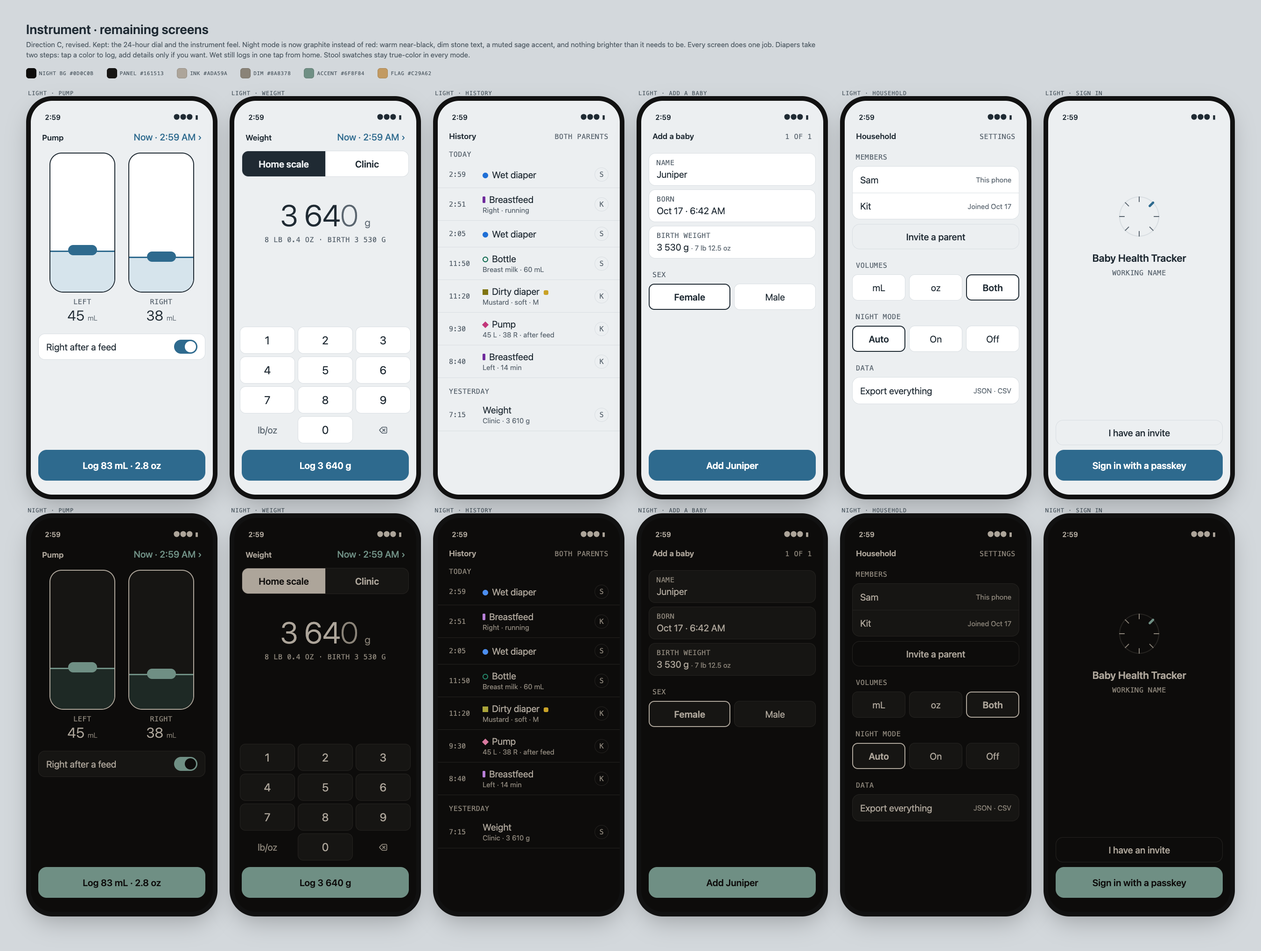
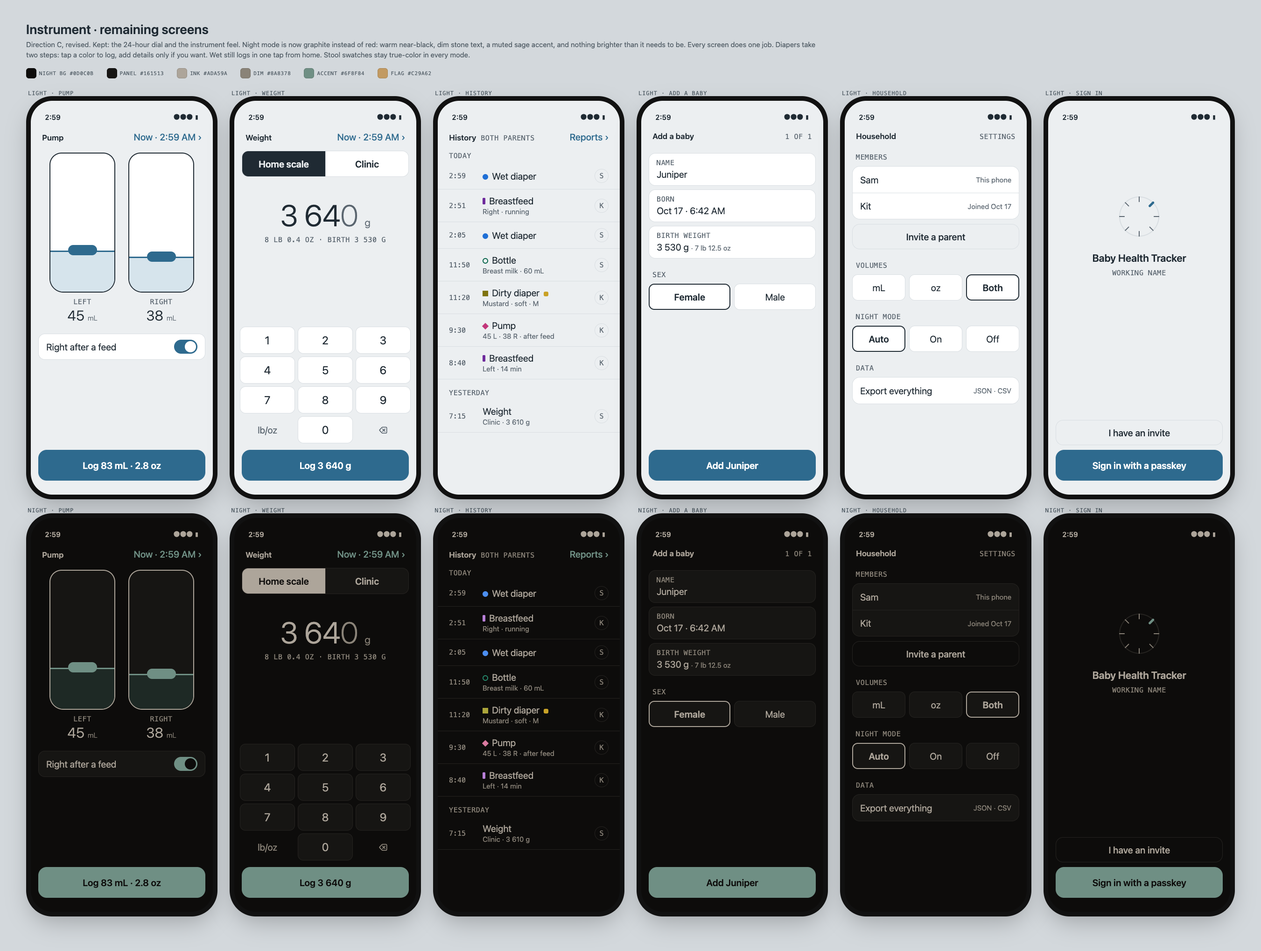
docs/design: Reports layout and Day starts at (#21) (#27)
* docs/design: Reports layout and Day starts at (#21)

- New ?board=reports: Day (summary cards, timeline in the dial's
  shapes, list with an after-midnight divider), Week (daily averages,
  a row per day with a mini timeline), Month (calendar with feeds and
  diapers per day), the Day starts at setting, and History's
  "Reports ›" header as the way in. Tapping the Home dial also opens it.
- Day starts at groups Reports and History only; the setting says
  Readings still count from the birth time.
- Counts in the mockup are computed from the same events the timeline
  draws, and Monday Oct 26 is the same day across all three views.
- README: Reports section, DST subtitle rule, per-phone until #5.
- Text audit over all four boards: every tappable label is 20 px and
  no text is below 4.5:1 (lowest 4.75 light, 4.63 night).

* docs/design: Reports review fixes (#21)

- Day phone scrolls; the board adds the same day scrolled to the
  After midnight divider, so the 1:40 and 3:00 AM feeds show.
- Events are real instants in America/New_York and days are cut at
  the day start, so a day can be 23 or 25 hours. ?case=dst25, dst23
  and start show the 25 h day (second 1:30 AM labelled "(2nd)", the
  repeated hour shaded), the 23 h day (no 2 AM), and Day starts at
  8 AM vs Midnight with the 3:00 AM Tuesday feed moving between
  Monday and Tuesday, each in Day and Week.
- Week is Oct 26 – Nov 1, so Monday Oct 26 matches in Day, Week and
[…]

diff --git a/docs/design/direction.html b/docs/design/direction.html
@@ -159,6 +159,62 @@ body{background:#D3D8DC;font-family:-apple-system,system-ui,sans-serif;padding:4
 .keys div{height:58px;border-radius:12px;background:var(--panel);border:1px solid var(--line);display:flex;align-items:center;justify-content:center;font:400 24px -apple-system,system-ui,sans-serif}
 .keys .ghost{background:none;border:none;color:var(--dim);font-size:20px}
 .mark{display:flex;justify-content:center;margin-top:150px}
+/* reports (#21) */
+.rp-step{display:grid;grid-template-columns:52px 1fr 52px;gap:8px;align-items:center;margin:14px 16px 0}
+.rp-step .arr{height:52px;border-radius:12px;border:1px solid var(--line);background:var(--panel);display:flex;align-items:center;justify-content:center;font:500 24px -apple-system,system-ui,sans-serif}
+.rp-step .arr.off{background:none;color:var(--dim)}
+.rp-step .d{text-align:center}
+.rp-step .d b{display:block;font:600 20px -apple-system,system-ui,sans-serif}
+.rp-step .d .lab{display:block;margin-top:4px}
+.sum{display:grid;grid-template-columns:repeat(3,1fr);gap:8px;margin:14px 16px 0}
+.sum>div{background:var(--panel);border:1px solid var(--line);border-radius:14px;padding:10px 12px 12px}
+.sum .n{font:300 36px/1.1 -apple-system,system-ui,sans-serif;font-variant-numeric:tabular-nums;margin:4px 0 4px}
+.sum .n small{font-size:17px;color:var(--dim)}
+.sub{font:400 15px/1.35 -apple-system,system-ui,sans-serif;color:var(--dim);font-variant-numeric:tabular-nums}
+.sub b{font-weight:500;color:var(--ink)}
+.sub .g{margin-right:5px;vertical-align:-1px}
+.avg{margin:14px 24px 0;font-size:17px;line-height:1.4}
+.avg b{font-weight:600;font-variant-numeric:tabular-nums}
+.strip{margin:8px 16px 0;padding:10px 12px 6px;background:var(--panel);border:1px solid var(--line);border-radius:14px}
+.strip svg{display:block;width:100%}
+.rr{display:grid;grid-template-columns:84px 1fr;align-items:center;gap:10px;padding:9px 24px;border-bottom:1px solid var(--line)}
+.rr .t{font:500 15px ui-monospace,Menlo,monospace;color:var(--dim);white-space:nowrap;text-align:right}
+.rr .k{font-size:17px}
+.rr .k small{color:var(--dim);font-size:15px;margin-left:6px}
+.rr .k .g{margin-right:8px}
+.after{margin:12px 24px 2px}
+.wk{margin:12px 16px 0;border-radius:16px;background:var(--panel);border:1px solid var(--line)}
+.wk>div{padding:10px 14px 8px}
+.wk>div+div{border-top:1px solid var(--line)}
+.wk .h{display:flex;justify-content:space-between;align-items:baseline}
+.wk .h b{font:600 20px -apple-system,system-ui,sans-serif}
+.wk .on{background:color-mix(in srgb,var(--acc) 10%,var(--panel))}
+.cal{display:grid;grid-template-columns:repeat(7,minmax(0,1fr));gap:4px;margin:10px 12px 0}
+.cal .wd{text-align:center;font:500 15px ui-monospace,Menlo,monospace;color:var(--dim);padding-bottom:2px}
+.cal .c{height:74px;border-radius:10px;background:var(--panel);border:1px solid var(--line);padding:5px 5px 4px;display:flex;flex-direction:column;justify-content:space-between}
+.cal .c b{font:500 20px/1 -apple-system,system-ui,sans-serif;font-variant-numeric:tabular-nums}
+.cal .c span{display:flex;align-items:center;gap:4px;font:400 15px/1.15 -apple-system,system-ui,sans-serif;font-variant-numeric:tabular-nums}
+.cal .c.x{background:none;border-color:transparent}
+.cal .c.x b{font-weight:400;color:var(--dim)}
+.cal .c.today{border:2px solid var(--ink)}
+.cal .c.wkon{background:color-mix(in srgb,var(--acc) 10%,var(--panel))}
+.pairg{display:inline-flex;gap:1px;align-items:center;flex:none}
+.pairg i{display:inline-block;width:6px;height:6px}
+.note{margin:10px 24px 0;font:400 15px/1.45 -apple-system,system-ui,sans-serif;color:var(--dim)}
+.note b{color:var(--ink);font-weight:500}
+.scr{position:absolute;top:50px;left:0;right:0;bottom:0;overflow-y:auto;scrollbar-width:none;padding-bottom:34px}
+.axis{position:relative;height:20px;margin-top:2px}
+.axis span{position:absolute;transform:translateX(-50%);white-space:nowrap}
+.axis span.l{transform:none;left:0!important}
+.axis span.r{transform:none;left:auto!important;right:0}
+.wcard{display:flex;align-items:baseline;gap:10px;margin:8px 16px 0;padding:10px 12px;background:var(--panel);border:1px solid var(--line);border-radius:14px}
+.wcard b{font:300 24px/1.1 -apple-system,system-ui,sans-serif;white-space:nowrap}
+.wk .h{gap:10px}
+.wk .h .tag{display:block;font:400 15px/1.3 -apple-system,system-ui,sans-serif;color:var(--dim)}
+.wk .fut .h b{color:var(--dim);font-weight:500}
+.rr .t small{display:block;font-size:15px}
+.rr.w .k small{display:block;margin:2px 0 0 20px}
+.rr.hl{box-shadow:inset 0 0 0 2px var(--acc);border-radius:10px}
 </style></head><body>
 <div id="root"></div>
 <script>
@@ -263,7 +319,7 @@ weight:()=>`${sb}${hdrA('Weight','Now · 2:59 AM ›')}
 <div class="keys">${[1,2,3,4,5,6,7,8,9].map(n=>`<div>${n}</div>`).join('')}<div class="ghost">lb/oz</div><div>0</div><div class="ghost">⌫</div></div>
 <div class="go">Log 3 640 g</div>`,
 
-history:()=>`${sb}${hdr('History','Both parents')}
+history:()=>`${sb}<div class="top"><b>History <span class="lab" style="margin-left:6px">Both parents</span></b><span class="act">Reports ›</span></div>
 <div class="day lab">Today</div>
 ${[["2:59","wet","Wet diaper","","S"],["2:51","feed","Breastfeed","Right · running","K"],["2:05","wet","Wet diaper","","S"],["11:50","bottle","Bottle","Breast milk · 60 mL","S"],["11:20","dirty","Dirty diaper","Mustard · soft · M","K","#C9A227"],["9:30","pump","Pump","45 L · 38 R · after feed","K"],["8:40","feed","Breastfeed","Left · 14 min","K"]].map(([t,g,k,d,w,c])=>`<div class="ev"><span class="t">${t}</span><span class="k"><i class="g g-${g}" style="margin-right:8px"></i>${k}${c?` <i class="dot" style="background:${c};margin:0 0 0 4px"></i>`:''}${d?`<small>${d}</small>`:''}</span><span class="who">${w}</span></div>`).join('')}
 <div class="day lab">Yesterday</div>
@@ -290,15 +346,134 @@ signin:()=>`${sb}
 <div class="go2">I have an invite</div>
 <div class="go">Sign in with a passkey</div>`,
 };
+// Reports (#21). Fake data. Every event is a real instant, and days are cut at the household's day start in America/New_York,
+// so a day can be 23 or 25 hours. ?case=dst25|dst23|start shows the boundary cases.
+const TZ='America/New_York',HR=36e5,MON=['Jan','Feb','Mar','Apr','May','Jun','Jul','Aug','Sep','Oct','Nov','Dec'],WD=['Sun','Mon','Tue','Wed','Thu','Fri','Sat'],WDL=['Sunday','Monday','Tuesday','Wednesday','Thursday','Friday','Saturday'];
+const WF=new Intl.DateTimeFormat('en-US',{timeZone:TZ,hourCycle:'h23',year:'numeric',month:'numeric',day:'numeric',hour:'numeric',minute:'numeric'});
+const wall=t=>{const p={};WF.formatToParts(t).forEach(x=>p[x.type]=x.value);const w={y:+p.year,mo:+p.month,d:+p.day,h:+p.hour%24,mi:+p.minute};w.wd=WD[new Date(Date.UTC(w.y,w.mo-1,w.d)).getUTCDay()];return w};
+const off=t=>{const w=wall(t);return Date.UTC(w.y,w.mo-1,w.d,w.h,w.mi)-Math.floor(t/6e4)*6e4};
+// Wall time to instant. A repeated time (clocks back) gives the first one, or the second with n=2. A skipped time moves forward.
+function zoned(y,mo,d,h=0,mi=0,n=1){const u=new Date(Date.UTC(y,mo-1,d));[y,mo,d]=[u.getUTCFullYear(),u.getUTCMonth()+1,u.getUTCDate()];
+ const g=Date.UTC(y,mo-1,d,h,mi),c=[...new Set([off(g-12*HR),off(g+12*HR)])].map(o=>g-o).filter(t=>{const w=wall(t);return w.d===d&&w.h===h&&w.mi===mi}).sort((a,b)=>a-b);
+ return c.length?c[Math.min(n,c.length)-1]:g-off(g-12*HR)}
+const ymd=s=>s.split('-').map(Number);
+const win=(y,mo,d,ds)=>[zoned(y,mo,d,ds),zoned(y,mo,d+1,ds)]; // a report day: [start, next start)
+const ampm=w=>`${(w.h%12)||12}${w.mi?':'+String(w.mi).padStart(2,'0'):''} ${w.h<12?'AM':'PM'}`;
+const clk=t=>{const w=wall(t);return`${(w.h%12)||12}:${String(w.mi).padStart(2,'0')} ${w.h<12?'AM':'PM'}${zoned(w.y,w.mo,w.d,w.h,w.mi)!==t?'<small> (2nd)</small>':''}`};
+const BIRTH=zoned(2026,10,17,6,42);
+let NOW=zoned(2026,10,29,3,0),CASE='';
+// Hand fixtures are written by the 8 AM convention: a time before 8 AM is the next calendar morning. '1:30#2' is the second 1:30.
+const fix=(y,mo,d,L)=>L.map(([ev,tm,v,dd,hl])=>{const[a,n]=tm.split('#'),[h,mi]=a.split(':').map(Number);return{ev,t:zoned(y,mo,h<8?d+1:d,h,mi,+n||1),v,d:dd,hl}});
+// Monday Oct 26: the day in the issue (1-4 AM feeds count as Monday night). The 3:00 AM feed is the one ?case=start follows.
+const HAND={'2026-10-26':fix(2026,10,26,[['feed','8:40',14,'Left · 14 min'],['pump','9:30',83,'45 L · 38 R'],['wet','10:05'],['weight','10:30',3580,'Clinic'],['dirty','11:20',0,'Mustard · soft'],['bottle','11:50',60,'Breast milk'],['feed','13:10',18,'Right · 18 min'],['wet','14:00'],['bottle','15:30',60,'Formula'],['feed','16:45',12,'Left · 12 min'],['dirty','17:30',0,'Yellow · seedy'],['feed','19:10',16,'Right · 16 min'],['wet','20:00'],['bottle','22:40',60,'Breast milk'],['wet','23:30'],['feed','1:40',15,'Left · 15 min'],['wet','2:05'],['feed','3:00',20,'Right · 20 min',1],['dirty','4:10',0,'Mustard · soft']]),
+// Sat Oct 31: clocks go back at 2 AM Sunday, so this day is 25 h and 1:30 AM happens twice.
+'2026-10-31':fix(2026,10,31,[['feed','8:20',16,'Left · 16 min'],['wet','9:40'],['bottle','11:00',60,'Breast milk'],['feed','12:15',14,'Right · 14 min'],['dirty','13:30',0,'Mustard · seedy'],['feed','15:00',18,'Left · 18 min'],['wet','16:10'],['bottle','17:45',75,'Formula'],['feed','19:20',15,'Right · 15 min'],['wet','20:30'],['feed','22:10',17,'Left · 17 min'],['wet','23:40'],['feed','1:30',15,'Right · 15 min'],['wet','1:30#2'],['feed','3:40',16,'Left · 16 min'],['dirty','5:30',0,'Yellow · soft'],['bottle','6:50',60,'Breast milk']]),
+// Sat Mar 13 2027: clocks go forward at 2 AM Sunday, so this day is 23 h and there is no 2 AM hour.
+'2027-03-13':fix(2027,3,13,[['bottle','8:10',150,'Breast milk'],['wet','9:00'],['feed','11:30',12,'Left · 12 min'],['dirty','12:40',0,'Brown · soft'],['bottle','14:00',180,'Formula'],['wet','15:10'],['feed','17:30',10,'Right · 10 min'],['wet','18:20'],['bottle','20:00',180,'Formula'],['wet','21:10'],['feed','23:30',14,'Left · 14 min'],['feed','1:50',10,'Right · 10 min'],['wet','3:10'],['bottle','6:30',150,'Breast milk'],['wet','7:30']])};
+function rng(seed){return()=>{seed|=0;seed=seed+0x6D2B79F5|0;let t=Math.imul(seed^seed>>>15,1|seed);t=t+Math.imul(t^t>>>7,61|t)^t;return((t^t>>>14)>>>0)/4294967296}}
+function authored(y,mo,d){const u=new Date(Date.UTC(y,mo-1,d));[y,mo,d]=[u.getUTCFullYear(),u.getUTCMonth()+1,u.getUTCDate()];
+ const k=`${y}-${String(mo).padStart(2,'0')}-${String(d).padStart(2,'0')}`;if(HAND[k])return HAND[k];
+ const[s,e]=win(y,mo,d,8);if(e<=BIRTH)return[];const old=y>2026;
+ const r=rng(d*7919+((y-2026)*12+mo-10)*104729),n=(a,b)=>a+Math.floor(r()*(b-a+1)),out=[];
+ const put=(ev,k,f)=>{for(let i=0;i<k;i++){const t=s+Math.floor(r()*(e-s)/6e4)*6e4;out.push({ev,t,...f()})}};
+ put('feed',old?n(3,5):n(5,7),()=>{const v=n(10,22);return{v,d:`${v%2?'Left':'Right'} · ${v} min`}});put('bottle',old?n(3,5):n(2,4),()=>{const v=old?[150,180,180,210][n(0,3)]:[45,60,60,75][n(0,3)];return{v,d:v%60?'Formula':'Breast milk'}});
+ put('wet',d<22&&!old?n(3,5):n(5,7),()=>({}));put('dirty',old?n(1,2):n(2,4),()=>({}));
+ if(r()<.6)put('pump',1,()=>({v:n(60,90)}));return out}
+// Events in [s,e), whichever day they were written under, logged before now and after birth.
+const between=(s,e)=>{const a=wall(s),out=[];for(let i=-1;i<=Math.ceil((e-s)/864e5)+1;i++)out.push(...authored(a.y,a.mo,a.d+i));return out.filter(x=>x.t>=s&&x.t<e&&x.t<NOW&&x.t>=BIRTH).sort((p,q)=>p.t-q.t)};
+const tally=E=>{const c={feed:0,bottle:0,wet:0,dirty:0,pump:0,ml:0,pml:0,weight:null};E.forEach(e=>{if(e.ev==='weight'){c.weight=e;return}c[e.ev]++;if(e.ev==='bottle')c.ml+=e.v;if(e.ev==='pump')c.pml+=e.v});return c};
+const kg=g=>(g/1000).toFixed(2),lbOz=g=>{let o=Math.round(g/28.3495),l=Math.floor(o/16);return`${l} lb ${o-l*16} oz`};
+const hrs=(s,e)=>Math.round((e-s)/HR);
+const shift=(s,e)=>{for(let t=s+HR;t<e;t+=HR)if(off(t)!==off(s))return t;return 0}; // when the clocks changed, if they did
+const midnight=(s,e)=>{const w=wall(s),m=zoned(w.y,w.mo,w.d+1,0);return m>s&&m<e?m:0};
+// Timeline in the dial's shapes. x is real elapsed time, so a 25 h day has 25 equal hours. Feed bars (length = duration) and bottle rings
+// share the top lane, like the dial's outer ring; wet dots and dirty squares share the next, like its inner ring. Pump gets its own lane.
+// Weight has no dial mark, so it stays off the timeline and shows as a card and a list row.
+function strip(E,s,e,ds,W,mini){const H=mini?26:62,x=t=>4+(t-s)/(e-s)*(W-8),y=mini?{feed:7,bottle:7,wet:19,dirty:19,pump:19}:{feed:12,bottle:12,wet:32,dirty:32,pump:52};
+ let o='';const m=midnight(s,e),sh=shift(s,e),back=sh&&off(sh)<off(s);
+ if(sh&&back)o+=`<rect x="${x(sh)}" y="0" width="${x(sh+HR)-x(sh)}" height="${H}" fill="var(--band)"/>`;
+ if(m)o+=`<line x1="${x(m)}" y1="0" x2="${x(m)}" y2="${H}" stroke="var(--dim)" stroke-width="1" stroke-dasharray="2 3"/>`;
+ const sw=wall(s),ticks=[0,6,12,18].map(k=>zoned(sw.y,sw.mo,sw.d+Math.floor((ds+k)/24),(ds+k)%24)).concat(e);
+ if(!mini)ticks.forEach(t=>o+=`<line x1="${x(t)}" y1="0" x2="${x(t)}" y2="${H}" stroke="var(--line)" stroke-width="1"/>`);
+ if(sh&&!back&&!mini)o+=`<line x1="${x(sh)}" y1="0" x2="${x(sh)}" y2="${H}" stroke="var(--ink)" stroke-width="1.5"/>`;
+ const k=mini?.62:1;
+ E.forEach(ev=>{const X=x(ev.t),Y=y[ev.ev];
+  if(ev.ev==='feed')o+=`<rect x="${X}" y="${Y-7*k}" width="${Math.max(3*k,ev.v*6e4/(e-s)*(W-8))}" height="${14*k}" rx="1.5" fill="var(--feed)"/>`;
+  if(ev.ev==='bottle')o+=`<circle cx="${X}" cy="${Y}" r="${5*k}" fill="var(--panel)" stroke="var(--bottle)" stroke-width="${2.5*k}"/>`;
+  if(ev.ev==='wet')o+=`<circle cx="${X}" cy="${Y}" r="${5.5*k}" fill="var(--wet)"/>`;
+  if(ev.ev==='dirty')o+=`<rect x="${X-5*k}" y="${Y-5*k}" width="${10*k}" height="${10*k}" rx="1" fill="var(--dirty)"/>`;
+  if(ev.ev==='pump'&&!mini)o+=`<rect x="${X-4.5}" y="${Y-4.5}" width="9" height="9" fill="var(--pump)" transform="rotate(45 ${X} ${Y})"/>`});
+ const ax=mini?'':`<div class="axis sub">${ticks.map((t,i)=>`<span style="left:${x(t)/W*100}%" class="${i?i==4?'r':'':'l'}">${ampm(wall(t))}</span>`).join('')}</div>`;
+ return `<svg viewBox="0 0 ${W} ${H}" height="${H}">${o}</svg>${ax}`}
+const dsLab=ds=>ds?`Day starts ${ds} AM`:'Day starts midnight';
+const rHdr=ds=>hdrA('‹ Home',dsLab(ds),1).replace(`<span class="act">${dsLab(ds)}</span>`,`<span class="lab">${dsLab(ds)}</span>`);
+const seg3=on=>`<div class="seg">${['Day','Week','Month'].map(t=>`<div class="${t===on?'on':''}">${t}</div>`).join('')}</div>`;
+const step=(t,sub,next=true)=>`<div class="rp-step"><div class="arr">‹</div><div class="d"><b>${t}</b><span class="lab">${sub}</span></div><div class="arr ${next?'':'off'}">›</div></div>`;
+const per=(v,n)=>(Math.round(v/n*10)/10).toString();
+const today=ds=>{const w=wall(NOW);return w.h<ds?[w.y,w.mo,w.d-1]:[w.y,w.mo,w.d]};
+// The Day phone scrolls. data-scroll picks a resting position for the static captures.
+const scr=(body,at)=>`<div class="scr" data-scroll="${at||''}">${body}</div>`;
+Object.assign(S,{
+rDay:(date='2026-10-26',ds='8',at='')=>{ds=+ds;const[y,mo,d]=ymd(date),[s,e]=win(y,mo,d,ds),E=between(s,e),c=tally(E),m=midnight(s,e),sh=shift(s,e),L=hrs(s,e),ew=wall(e),sw=wall(s);
+ const sub=(ds?`${ampm(sw)} to ${ampm(ew)} ${ew.wd}`:'Midnight to midnight')+(L!==24?` · ${L} h`:'');
+ let after=false,shown=false;
+ return `${sb}`+scr(`${rHdr(ds)}${seg3('Day')}${step(`${WDL[new Date(Date.UTC(y,mo-1,d)).getUTCDay()]}, ${MON[mo-1]} ${d}`,sub)}
+<div class="sum"><div><span class="lab">Diapers</span><div class="n">${c.wet+c.dirty}</div><div class="sub"><i class="g g-wet"></i><b>${c.wet}</b> wet<br><i class="g g-dirty"></i><b>${c.dirty}</b> dirty</div></div>
+<div><span class="lab">Feeds</span><div class="n">${c.feed+c.bottle}</div><div class="sub"><i class="g g-feed"></i><b>${c.feed}</b> breast<br><i class="g g-bottle"></i><b>${c.bottle}</b> bottle</div></div>
+<div><span class="lab">Bottle</span><div class="n">${c.ml}</div><div class="sub"><b>mL</b> total<br><b>${(c.ml/29.57).toFixed(1)}</b> oz</div></div></div>
+${c.weight?`<div class="wcard"><span class="lab">Weight</span><b class="num">${kg(c.weight.v)} kg</b><span class="sub">${lbOz(c.weight.v)} · ${c.weight.d}</span></div>`:''}
+<div class="strip">${strip(E,s,e,ds,332)}</div>
+${sh?`<div class="note">${off(sh)<off(s)?'Clocks went back at 2 AM, so 1 AM to 2 AM happened twice. The shaded hour is the second one.':'Clocks went forward at 2 AM (solid line). There was no 2 AM hour.'}</div>`:''}
+<div style="margin-top:6px">${E.map(ev=>{let pre='';const mw=m&&wall(m);
+ if(m&&!after&&ev.t>=m){after=true;pre=`<div class="after lab">After midnight · ${mw.wd} ${MON[mw.mo-1]} ${mw.d}</div>`}
+ if(sh&&!shown&&ev.t>=sh){shown=true;pre+=`<div class="after lab">${off(sh)<off(s)?'Clocks went back · 1 AM again':'Clocks went forward · no 2 AM'}</div>`}
+ const name={feed:'Breastfeed',bottle:`Bottle ${ev.v} mL`,wet:'Wet diaper',dirty:'Dirty diaper',pump:'Pump',weight:`Weight · ${ev.v&&kg(ev.v)} kg / ${ev.v&&lbOz(ev.v)}`}[ev.ev];
+ return pre+`<div class="rr${ev.hl&&CASE==='start'?' hl':''}${ev.ev==='weight'?' w':''}"><span class="t">${clk(ev.t)}</span><span class="k"><i class="g g-${ev.ev}"></i>${name}${ev.d?`<small>${ev.d}</small>`:''}</span></div>`}).join('')}</div>`,at)},
+rWeek:(date='2026-10-26',ds='8')=>{ds=+ds;const[y,mo,d]=ymd(date),days=[0,1,2,3,4,5,6].map(i=>{const[s,e]=win(y,mo,d+i,ds),w=wall(zoned(y,mo,d+i,12));return{w,s,e,E:between(s,e)}}),
+ done=days.filter(x=>x.e<=NOW),T=done.map(x=>tally(x.E)),sum=k=>T.reduce((a,c)=>a+c[k],0),n=T.length,l=days[6].w;
+ const range=`${MON[mo-1]} ${d} – ${l.mo!==mo?MON[l.mo-1]+' ':''}${l.d}`;
+ return `${sb}`+scr(`${rHdr(ds)}${seg3('Week')}${step(range,'Mon to Sun',days[6].e<=NOW)}
+<div class="avg">A day on average${n<7?` (${n} full ${n==1?'day':'days'})`:''}: <b>${per(sum('wet')+sum('dirty'),n)}</b> diapers, <b>${per(sum('feed')+sum('bottle'),n)}</b> feeds, <b>${Math.round(sum('ml')/n)} mL</b> bottle.</div>
+<div class="wk">${days.map(({w,s,e,E})=>{const c=tally(E),L=hrs(s,e),lab=`${w.wd} ${w.d}`;
+ if(s>=NOW)return`<div class="fut"><div class="h"><b>${lab}</b><span class="sub">Not yet</span></div></div>`;
+ const tag=[e>NOW?'so far':'',L!==24?`${L} h`:''].filter(Boolean).join(' · ');
+ return`<div><div class="h"><b>${lab}${tag?`<span class="tag">${tag}</span>`:''}</b><span class="sub"><b>${c.wet+c.dirty}</b> diapers · <b>${c.feed+c.bottle}</b> feeds · <b>${c.ml}</b> mL</span></div>${strip(E,s,e,ds,326,1)}</div>`}).join('')}</div>`)},
+rMonth:()=>{const lead=(new Date(2026,9,1).getDay()+6)%7,cells=[],[ty,tm,td]=today(8);
+ for(let i=0;i<lead;i++)cells.push('<div class="c x"></div>');
+ const T=[];for(let d=1;d<=31;d++){const[s,e]=win(2026,10,d,8);if(e<=BIRTH||s>=NOW){cells.push(`<div class="c x"><b>${d}</b></div>`);continue}
+  const c=tally(between(s,e));if(e<=NOW)T.push(c);const now=ty===2026&&tm===10&&td===d;
+  cells.push(`<div class="c ${now?'today':''}"><b>${d}</b><span><i class="g g-feed" style="height:12px;width:5px"></i>${c.feed+c.bottle}</span><span><span class="pairg"><i style="background:var(--wet);border-radius:50%"></i><i style="background:var(--dirty)"></i></span>${c.wet+c.dirty}</span></div>`)}
+ const sum=k=>T.reduce((a,c)=>a+c[k],0),n=T.length;
+ return `${sb}${rHdr(8)}${seg3('Month')}${step('October 2026','Since birth, Oct 17',false)}
+<div class="avg">A day on average: <b>${per(sum('wet')+sum('dirty'),n)}</b> diapers, <b>${per(sum('feed')+sum('bottle'),n)}</b> feeds, <b>${Math.round(sum('ml')/n)} mL</b> bottle.</div>
+<div class="note" style="margin-top:6px"><i class="g g-feed" style="height:12px;width:5px;margin-right:6px"></i>feeds · <span class="pairg" style="margin-right:6px"><i style="background:var(--wet);border-radius:50%"></i><i style="background:var(--dirty)"></i></span>diapers · outlined: today so far</div>
+<div class="cal">${['M','T','W','T','F','S','S'].map(w=>`<div class="wd">${w}</div>`).join('')}${cells.join('')}</div>`},
+rStart:()=>`${sb}${hdr('Household','Settings')}
+<div class="sec lab">Volumes</div><div class="opts" style="grid-template-columns:repeat(3,1fr)"><div>mL</div><div>oz</div><div class="on">Both</div></div>
+<div class="sec lab">Night mode</div><div class="opts" style="grid-template-columns:repeat(3,1fr)"><div class="on">Auto</div><div>On</div><div>Off</div></div>
+<div class="sec lab">Day starts at</div><div class="opts" style="grid-template-columns:repeat(3,1fr)"><div>Midnight</div><div>6 AM</div><div>7 AM</div><div class="on">8 AM</div><div>9 AM</div><div>Other ›</div></div>
+<div class="note">Reports and History start each day at <b>8:00 AM</b>, so a 3 AM feed counts as the night before.</div>
+<div class="note">Readings don't change. They always count from Juniper's birth time.</div>`,
+});
 function gauges(){return [["Wet diapers","7",[50,100],72,"6+ from day 5"],["Dirty diapers","4",[38,100],55,"3+ in week 2"],["Weight vs birth","+3.1%",[40,80],58,"Back to birth weight by day 7–14"]].map(([k,v,[b1,b2],p,n])=>`<div class="gauge"><div class="r"><span class="k">${k}</span><span class="v">${v}</span></div><div class="track"><div class="base"></div><div class="band" style="left:${b1}%;right:${100-b2}%"></div><div class="pt" style="left:${p}%"></div></div><div class="lab" style="margin-top:6px;letter-spacing:.02em;text-transform:none;font-size:15px">${n}</div></div>`).join('')
 +`<div class="gauge"><div class="r"><span class="k">Recorded bottle intake</span><span class="v">≈410 mL</span></div><div style="margin-top:10px;font-size:15px;font-weight:500">Not enough information to assess total intake</div><div class="lab" style="margin-top:4px;letter-spacing:.02em;text-transform:none;font-size:15px">≈410 mL recorded from bottles. 9 breastfeeds not measured.</div></div>`}
 
 const BOARDS={
  home:{h:"Home · glanceable (#20)",s:"Owner feedback after real-phone use: the dial read as black and white, the labels were too small, and the buttons should say when each thing was last logged. Each event type now has its own saturated colour and its own shape (feed bar, bottle ring, wet dot, dirty square), so the dial still reads without colour. Night colours are outlines and marks, never fills, and none is brighter than the night text. Buttons carry a coloured outline, the time since the last log, and the last side for Feed and Pump. Anything tappable is 20 px; no text is under 15 px, and all text passes 4.5:1.",cols:[["Home · idle","home","home"],["Home · feeding","homeFeeding","homeFeeding"]]},
  core:{h:"Instrument · core screens",cols:[["Home · 24 h dial","home","home"],["Breastfeed timer","feed","feed"],["Diaper 1 · color","diaperColor","diaperColor"],["Diaper 2 · details","diaperDetails","diaperDetails"],["Bottle","bottle","bottle"],["Readings","readingsFlag","readingsOk"],["Why?","why","why"]]},
+ reports:{h:"Reports · look back (#21)",s:"Pick a day, a week or a month. A day shows a summary, then a timeline in the dial's shapes, then the list. Week and month show a summary for each day, and tapping a day opens it. Days start at the household's Day starts at time (8 AM here), so feeds between 1 and 4 AM after Monday night count as Monday. That only changes how days are grouped; Readings still count from the birth time. Open Reports from History (Reports ›) or by tapping the Home dial. Reports are read-only; to change an event, use History. The Day phone scrolls; the second column is the same day scrolled to After midnight. Boundary cases: <b>?board=reports&amp;case=dst25</b>, <b>dst23</b> and <b>start</b>.",cols:[["Day","rDay","rDay"],["Day · scrolled","rDay|2026-10-26|8|after","rDay|2026-10-26|8|after"],["Week","rWeek","rWeek"],["Month","rMonth","rMonth"],["Day starts at","rStart","rStart"],["History · way in","history","history"]]},
  rest:{h:"Instrument · remaining screens",cols:[["Pump","pump","pump"],["Weight","weight","weight"],["History","history","history"],["Add a baby","addBaby","addBaby"],["Household","settings","settings"],["Sign in","signin","signin"]]},
 };
-const Q=new URLSearchParams(location.search), which=Q.get('board')||'core', B=BOARDS[which];
+// Reports boundary cases. Each is its own fixture date, with its own "now".
+const CASES={
+ dst25:{now:zoned(2026,11,2,12),h:"Reports · 25-hour day (#21)",s:"Clocks go back at 2 AM on Sunday Nov 1, so with Day starts at 8 AM, Saturday Oct 31 runs 8 AM Saturday to 8 AM Sunday: 25 hours. The timeline gives every real hour the same width and shades the repeated hour. In the list the second 1:30 AM reads \"1:30 AM (2nd)\". In Week, the row says 25 h and its mini timeline spans its own 25 hours. Viewed on Mon Nov 2, so the whole week has happened; Mon Oct 26 is the same day as on the main board.",cols:[["Day · Sat Oct 31","rDay|2026-10-31|8","rDay|2026-10-31|8"],["Day · repeated hour","rDay|2026-10-31|8|after","rDay|2026-10-31|8|after"],["Week · Oct 26 – Nov 1","rWeek|2026-10-26|8","rWeek|2026-10-26|8"]]},
+ dst23:{now:zoned(2027,3,15,12),h:"Reports · 23-hour day (#21)",s:"Clocks go forward at 2 AM on Sunday Mar 14, 2027, so Saturday Mar 13 runs 8 AM to 8 AM Sunday: 23 hours. There is no 2 AM hour: a 1:50 AM feed is followed 20 minutes later by a 3:10 AM diaper. The timeline marks the jump with a solid line, and the axis tick that would be 2 AM reads 3 AM.",cols:[["Day · Sat Mar 13","rDay|2027-03-13|8","rDay|2027-03-13|8"],["Day · skipped hour","rDay|2027-03-13|8|after","rDay|2027-03-13|8|after"],["Week · Mar 8 – 14","rWeek|2027-03-08|8","rWeek|2027-03-08|8"]]},
+ start:{h:"Reports · Day starts at, 8 AM vs midnight (#21)",s:"The outlined row is the 3:00 AM feed on Tuesday Oct 27. With Day starts at 8 AM it belongs to Monday Oct 26, under After midnight. With Midnight it belongs to Tuesday, and Monday ends at 11:59 PM without it. Week moves the same events between rows: Monday loses its early-morning events and gains Sunday night's. Readings are not affected by this setting.",cols:[["Day · 8 AM · Mon Oct 26","rDay|2026-10-26|8|hl","rDay|2026-10-26|8|hl"],["Day · midnight · Mon Oct 26","rDay|2026-10-26|0|end","rDay|2026-10-26|0|end"],["Day · midnight · Tue Oct 27","rDay|2026-10-27|0|hl","rDay|2026-10-27|0|hl"],["Week · 8 AM","rWeek|2026-10-26|8","rWeek|2026-10-26|8"],["Week · midnight","rWeek|2026-10-26|0","rWeek|2026-10-26|0"]]},
+};
+const Q=new URLSearchParams(location.search), which=Q.get('board')||'core';
+let B=BOARDS[which];
+if(which=='reports'&&CASES[Q.get('case')]){CASE=Q.get('case');const C=CASES[CASE];if(C.now)NOW=C.now;B={...B,...C}}
+const view=k=>{const[n,...a]=k.split('|');return S[n](...a)};
 const pal=which=='home'
  ?[["Feed","#6E2A9C","#B880D8"],["Bottle","#08664C","#25876B"],["Wet","#1F6FD6","#4C8EF0"],["Dirty","#7F7410","#ABA53A"],["Pump","#C2367A","#DA7AA0"]]
  :[["Night bg","#0D0C0B"],["Panel","#161513"],["Ink","#ADA59A"],["Dim","#8A8378"],["Accent","#6F8F84"],["Flag","#C29A62"]];
@@ -307,5 +482,8 @@ if(Q.get('cvd')=='deut'){document.body.insertAdjacentHTML('beforeend',`<svg widt
 document.getElementById('root').innerHTML=`<div class="board-h">${B.h}</div>
 <div class="board-s">${B.s||`Direction C, revised. Kept: the 24-hour dial and the instrument feel. Night mode is now graphite instead of red: warm near-black, dim stone text, a muted sage accent, and nothing brighter than it needs to be. Every screen does one job. Diapers take two steps: tap a color to log, add details only if you want. Wet still logs in one tap from home. Stool swatches stay true-color in every mode.`}${Q.get('cvd')=='deut'?' <b>Deuteranopia simulation.</b>':''}</div>
 <div class="palette">${pal.map(([n,c,c2])=>`<div><i style="background:${c}"></i>${c2?`<i style="background:${c2}"></i>`:''}${n} ${c}${c2?` · ${c2}`:''}</div>`).join('')}</div>`+
-['light','night'].map(m=>`<div class="row">${B.cols.map(([c,l,n])=>`<div><div class="cap">${m} · ${c}${l!==n&&m=='night'?' · all clear':l!==n?' · flag':''}</div><div class="phone ${m}">${S[m=='light'?l:n]()}</div></div>`).join('')}</div>`).join('');
+['light','night'].map(m=>`<div class="row">${B.cols.map(([c,l,n])=>`<div><div class="cap">${m} · ${c}${l!==n&&m=='night'?' · all clear':l!==n?' · flag':''}</div><div class="phone ${m}">${view(m=='light'?l:n)}</div></div>`).join('')}</div>`).join('');
+// Rest the scrolling phones where the capture needs them.
+document.querySelectorAll('.scr[data-scroll]').forEach(el=>{const at=el.dataset.scroll,t=at==='after'?el.querySelector('.after'):at==='hl'?el.querySelector('.rr.hl'):null;
+ if(at==='end')el.scrollTop=el.scrollHeight;else if(t)el.scrollTop=t.offsetTop-(at==='hl'?300:180)});
 </script></body></html>

diff --git a/docs/design/README.md b/docs/design/README.md
@@ -9,6 +9,9 @@ This folder holds the merged direction. It is the reference for the #6 UI.
 - `board-core.png`, `board-rest.png`: renders of the two boards.
 - `board-home.png`, `board-home-deut.png`: the glanceable Home (#20), and the
   same board through a deuteranopia simulation (`?board=home&cvd=deut`).
+- `board-reports.png`: Reports (#21), from `?board=reports`. The boundary
+  cases are `board-reports-dst25.png`, `board-reports-dst23.png` and
+  `board-reports-start.png`, from `?board=reports&case=dst25|dst23|start`.
 - `explorations/`: the three original directions (A Ledger, B Nest, C Darkroom),
   kept for the record.
 
@@ -176,6 +179,73 @@ are grouped under "Consider talking to your pediatrician".
   right after a log and right after Undo (the undone event no longer counts),
   and the elapsed time ticks at least once a minute.
 
+## Reports (#21)
+
+Reports are for looking back. History is for editing. Reports are read-only:
+nothing on them opens an editor, and a parent who wants to change an event uses
+History.
+
+- **Way in.** "Reports ›" in the History header, and a tap on the Home dial
+  (the dial is already the last 24 hours). The Home chips stay as they are,
+  because a fourth chip at 20 px doesn't fit. History keeps "Both parents"
+  beside its title.
+- **Day, Week, Month.** A segmented control, then a stepper: ‹, the period
+  ("Monday, Oct 26", "Oct 26 – Nov 1", "October 2026"), ›. Tapping the period
+  opens a date picker. › is disabled on the current period.
+- **Day.** Three summary cards: Diapers (wet and dirty), Feeds (breast and
+  bottle) and Bottle (mL total and oz). If a weight was logged that day, a
+  Weight card follows ("3.58 kg", then "7 lb 14 oz · Clinic"). Then a
+  timeline from day start to day start, in the dial's shapes: feed bars (as long
+  as the feed) and bottle rings on the top lane, wet dots and dirty squares on
+  the next, pump diamonds on the last. A dotted line marks midnight. Then the
+  list, oldest first, with an "After midnight · Tue Oct 27" divider. List rows
+  are 17 px because they are not tappable. The Day screen scrolls; the board
+  shows it at the top and scrolled to the divider.
+- **Weight** has no mark on the dial, so it stays off the timeline. It shows as
+  the Day card and a list row, "Weight · 3.58 kg / 7 lb 14 oz", with where it
+  was taken under it. Week and Month don't show weight.
+- **Week.** One line of daily averages over the days that have finished, then
+  a row for each day: the day (20 px, opens the Day view), its counts, and a
+  mini timeline. Today says "so far"; later days say "Not yet" and don't open.
+- **Month.** Daily averages, then a calendar. Each day shows feeds (bar) and
+  diapers (dot and square) and opens the Day view. Days before birth and future
+  days are blank. Today is outlined and counts only so far.
+- **Counts match the timeline.** Every count is computed from the same events
+  the timeline draws. In the mockup, Monday Oct 26 is the same day in the Day
+  view, the first Week row and the Month cell: 8 diapers, 9 feeds, 180 mL.
+- **Units** follow the mL/oz setting. "Both" shows mL first.
+
+### Day starts at
+
+- A Household setting: Midnight, 6 AM, 7 AM, 8 AM, 9 AM or Other (the
+  phone's time wheel). The default is Midnight.
+- It moves the day boundary in Reports and in History's day headings. With
+  8 AM, a 3 AM feed belongs to the night before.
+- It never changes Readings. Those count day-of-life windows from the birth
+  time (#11), and the screen says so under the setting. The implementation
+  needs #21's test that Readings are identical before and after a change.
+- The Day view says what its window is: "8 AM to 8 AM Tue", or "Midnight to
+  midnight". In `case=start`, the 3:00 AM Tuesday feed is in Monday with 8 AM
+  and in Tuesday with Midnight, and the Week rows move with it.
+- Until household sync (#5) lands, the setting is per phone (issue #21).
+
+### Daylight saving
+
+Days are cut at the day start in the household's time zone, not every 24
+hours, so a day can be 23 or 25 hours. The mockup builds every event from a
+real date in America/New_York.
+
+- The Day subtitle adds the length: "8 AM to 8 AM Sun · 25 h". The Week row
+  says "25 h" under the day, and its mini timeline spans that day's own hours.
+- The timeline gives every real hour the same width, so a 25 h day draws 25
+  hours and its axis ticks follow the clock.
+- **Clocks back (25 h, `case=dst25`).** The repeated hour is shaded on the
+  timeline, a note under it says what happened, and the list has a "Clocks went
+  back · 1 AM again" divider. A time in the second hour reads "1:30 AM (2nd)".
+- **Clocks forward (23 h, `case=dst23`).** A solid line marks the jump, the
+  note says there was no 2 AM hour, and the list has a "Clocks went forward ·
+  no 2 AM" divider. The axis tick that would be 2 AM reads 3 AM.
+
 ## Flows
 
 | Log | Taps from home |
@@ -192,6 +262,9 @@ Core: home (24-hour dial), breastfeed timer, diaper color, diaper details,
 bottle, readings (flag and all-clear states), why.
 
 Remaining: pump, weight, history, add a baby, household settings, sign in.
+
+Reports: day (top and scrolled), week, month, Day starts at, and History's
+"Reports ›" header. Cases: 25 h day, 23 h day, Day starts at 8 AM vs midnight.
 
 ## Readings and flag copy
 
